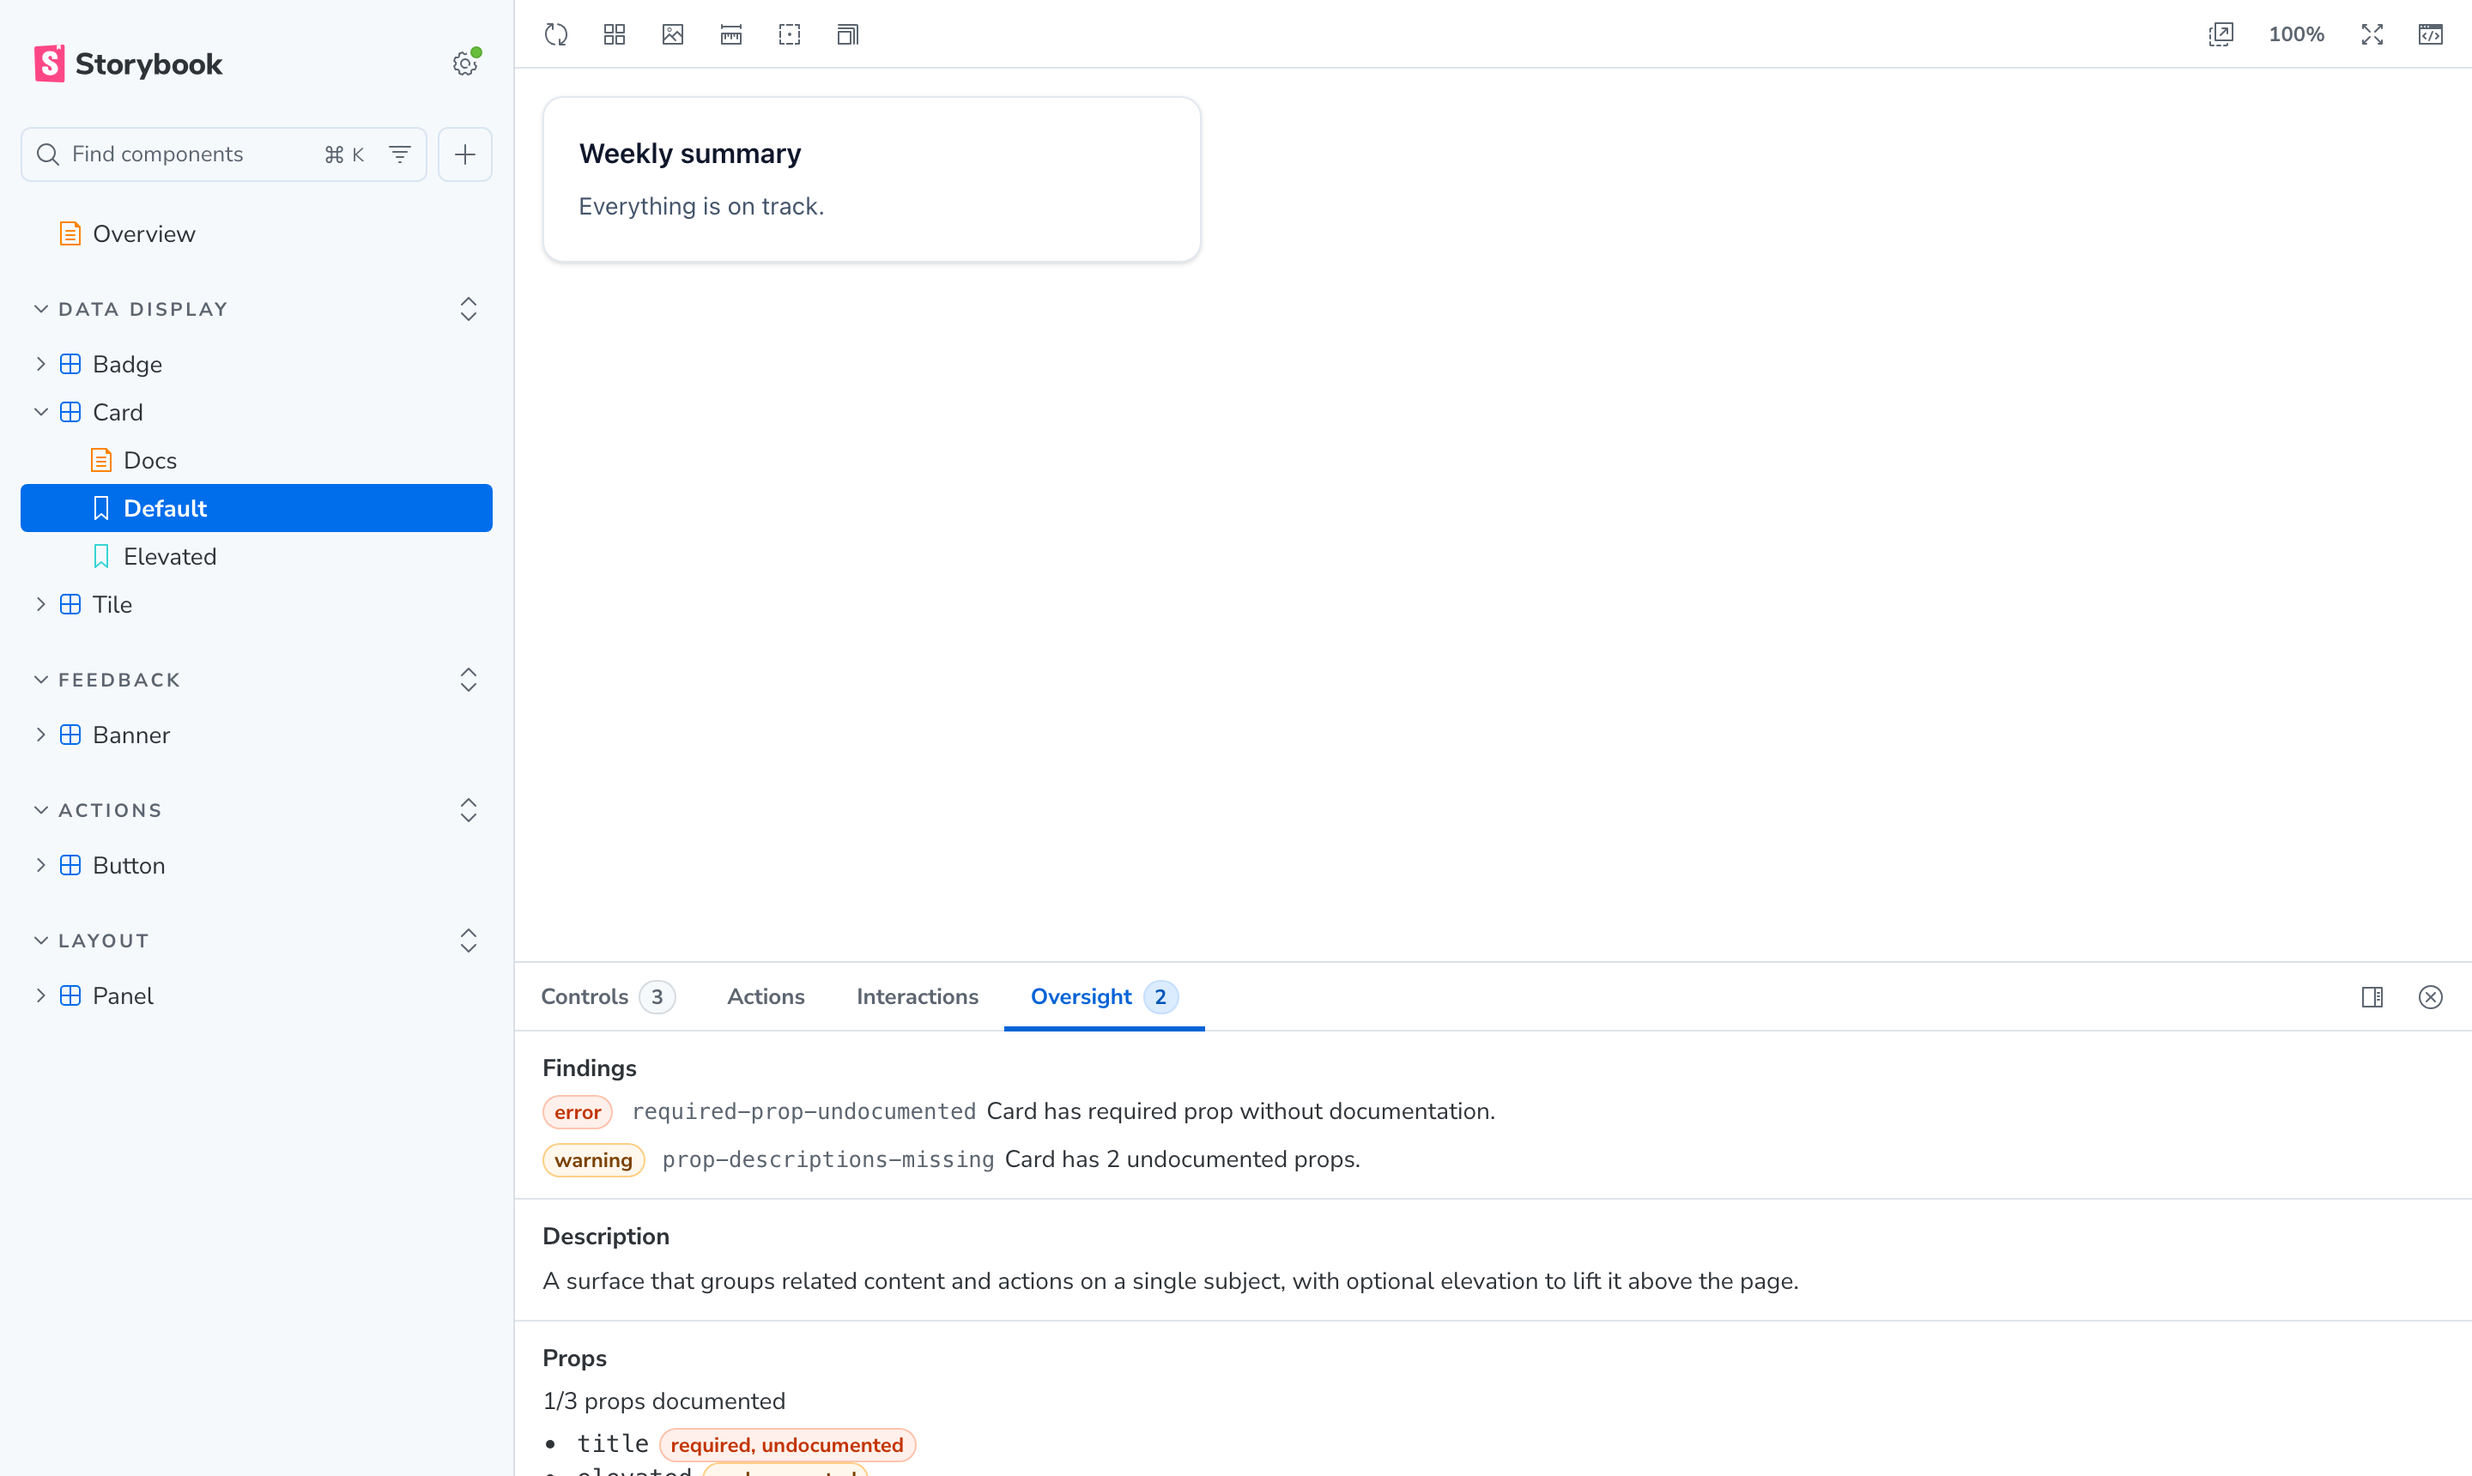
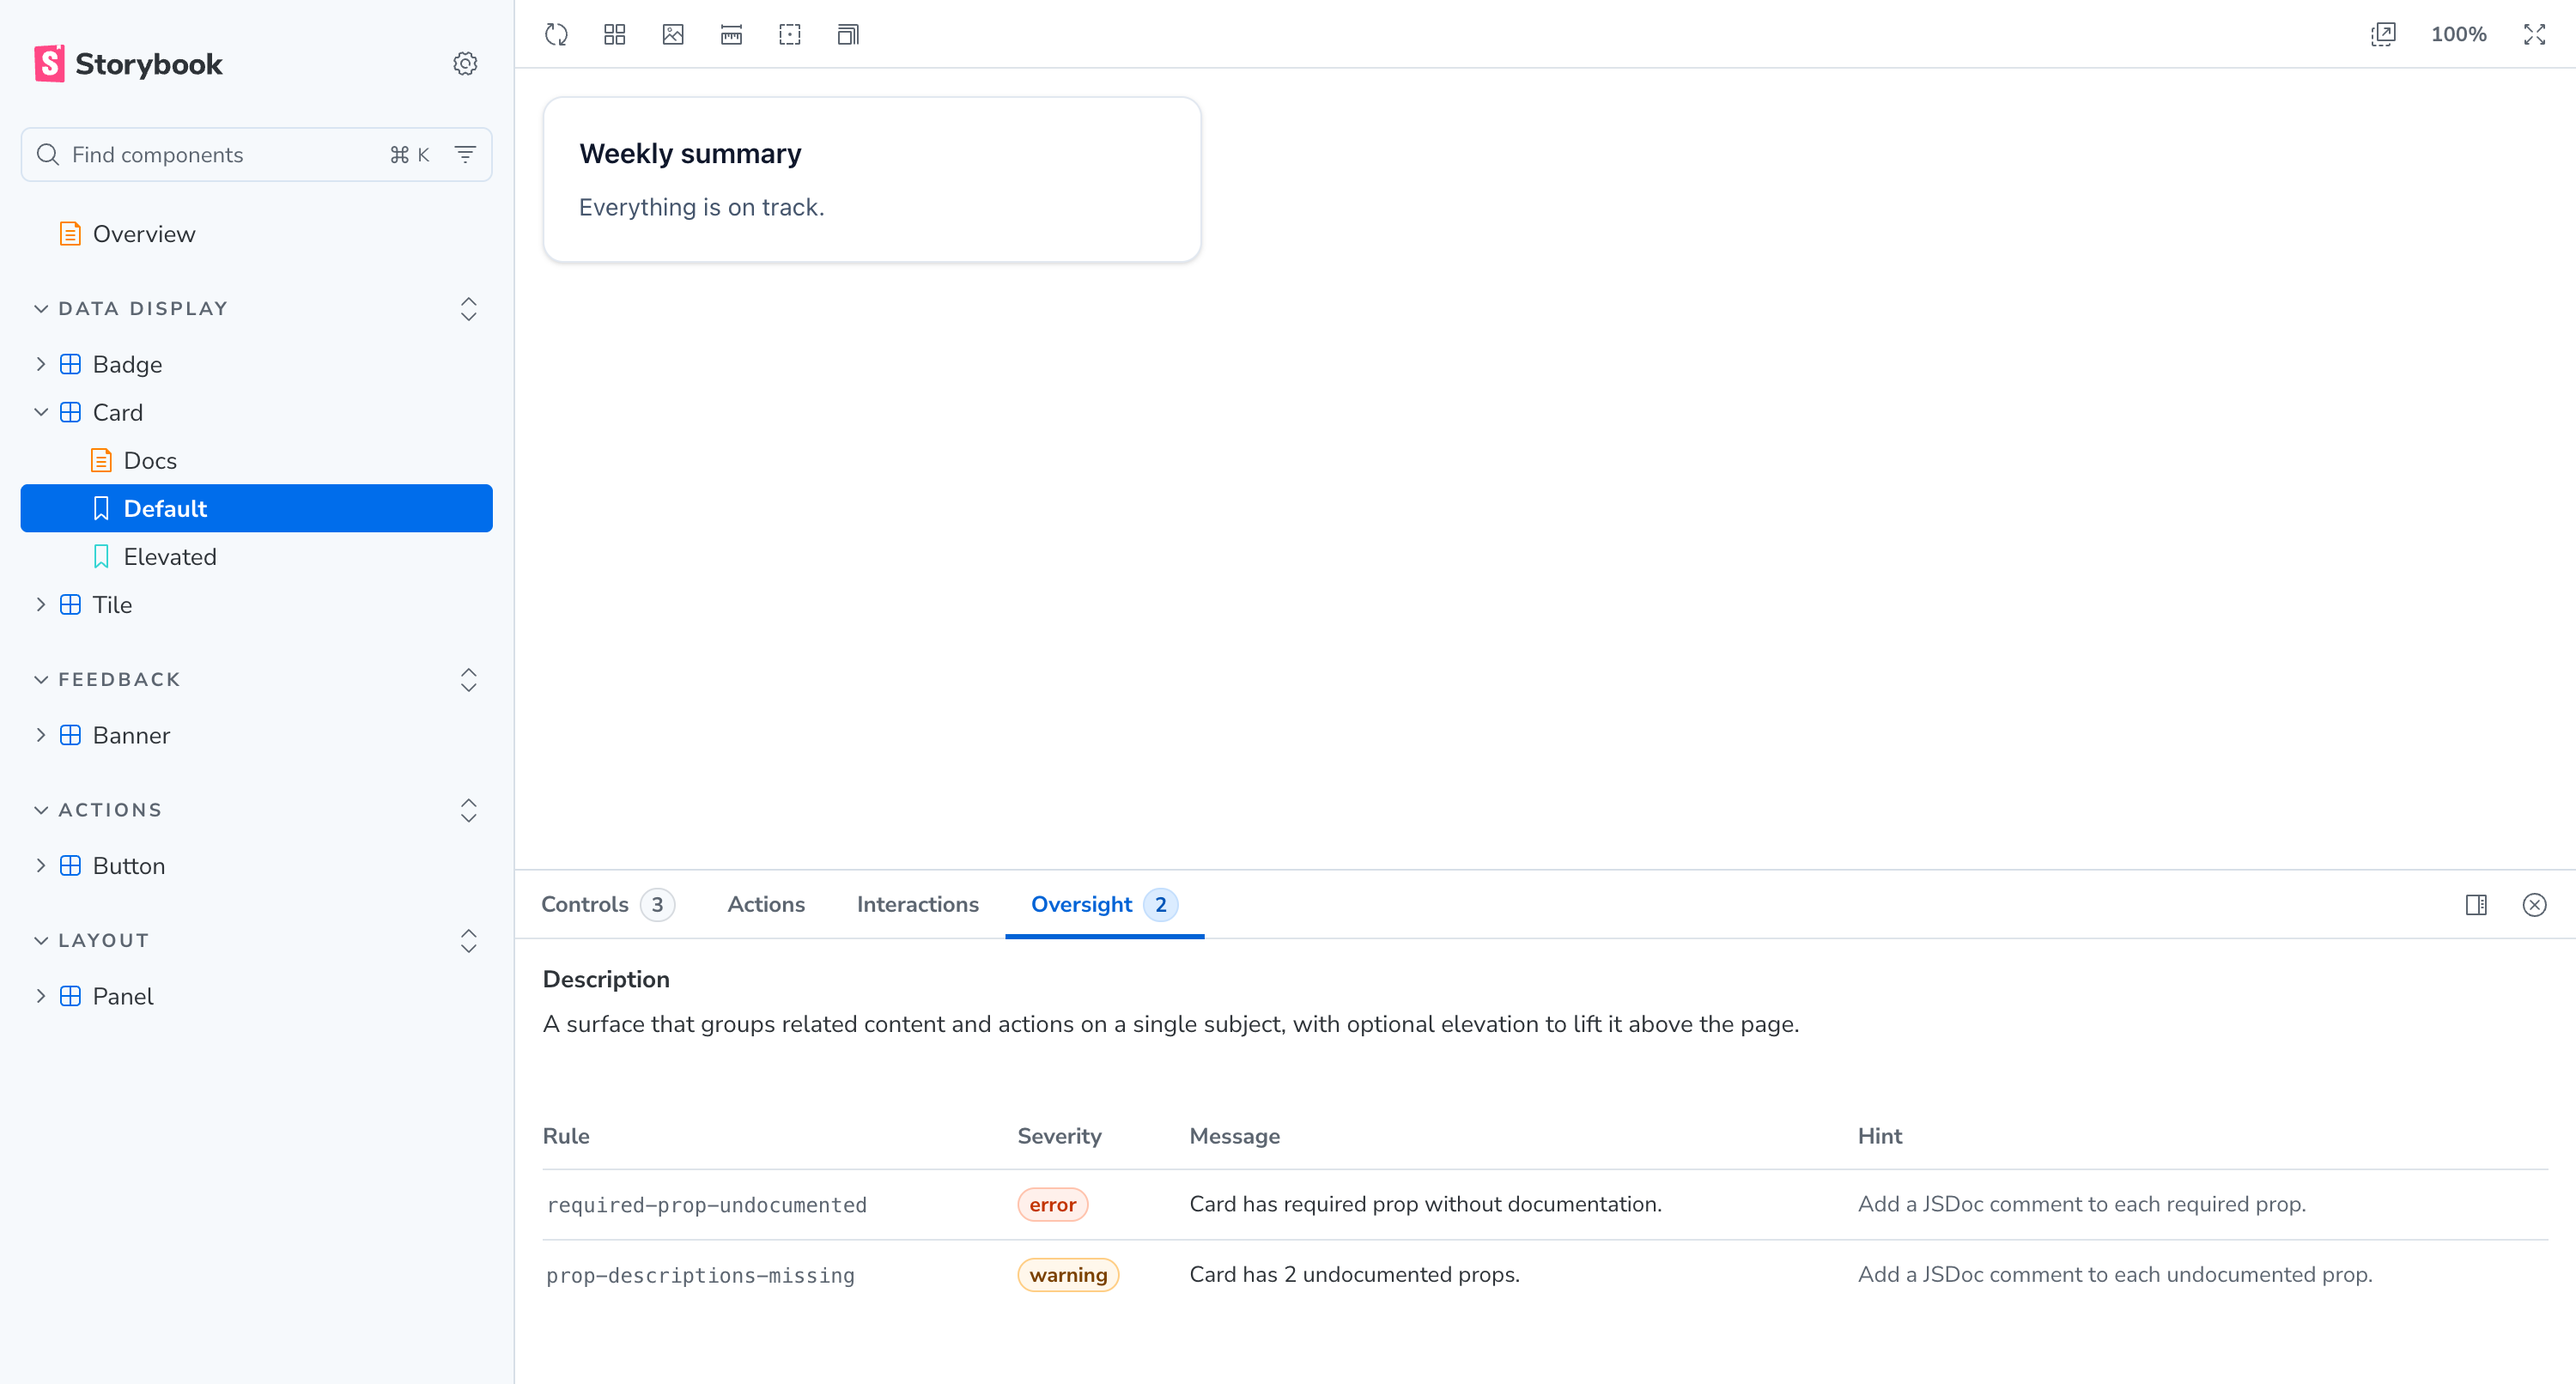
docs: recapture the demo shots against the report as it renders now
Every screenshot on the Overview page and the GIF in both READMEs showed
the report before this branch rewrote it: findings as severity-chipped
lines, a props bullet list with a "1/3 props documented" count, and a
Documented verdict standing in for the description.

The findings caption went with them. It described a severity chip, a rule
name and a message, in that order, which is neither the shape nor the order
that renders.

diff --git a/.changeset/refresh-demo-shots.md b/.changeset/refresh-demo-shots.md
@@ -1,0 +1,4 @@
+---
+---
+
+docs: recapture the demo screenshots and the panel GIF against the current report
